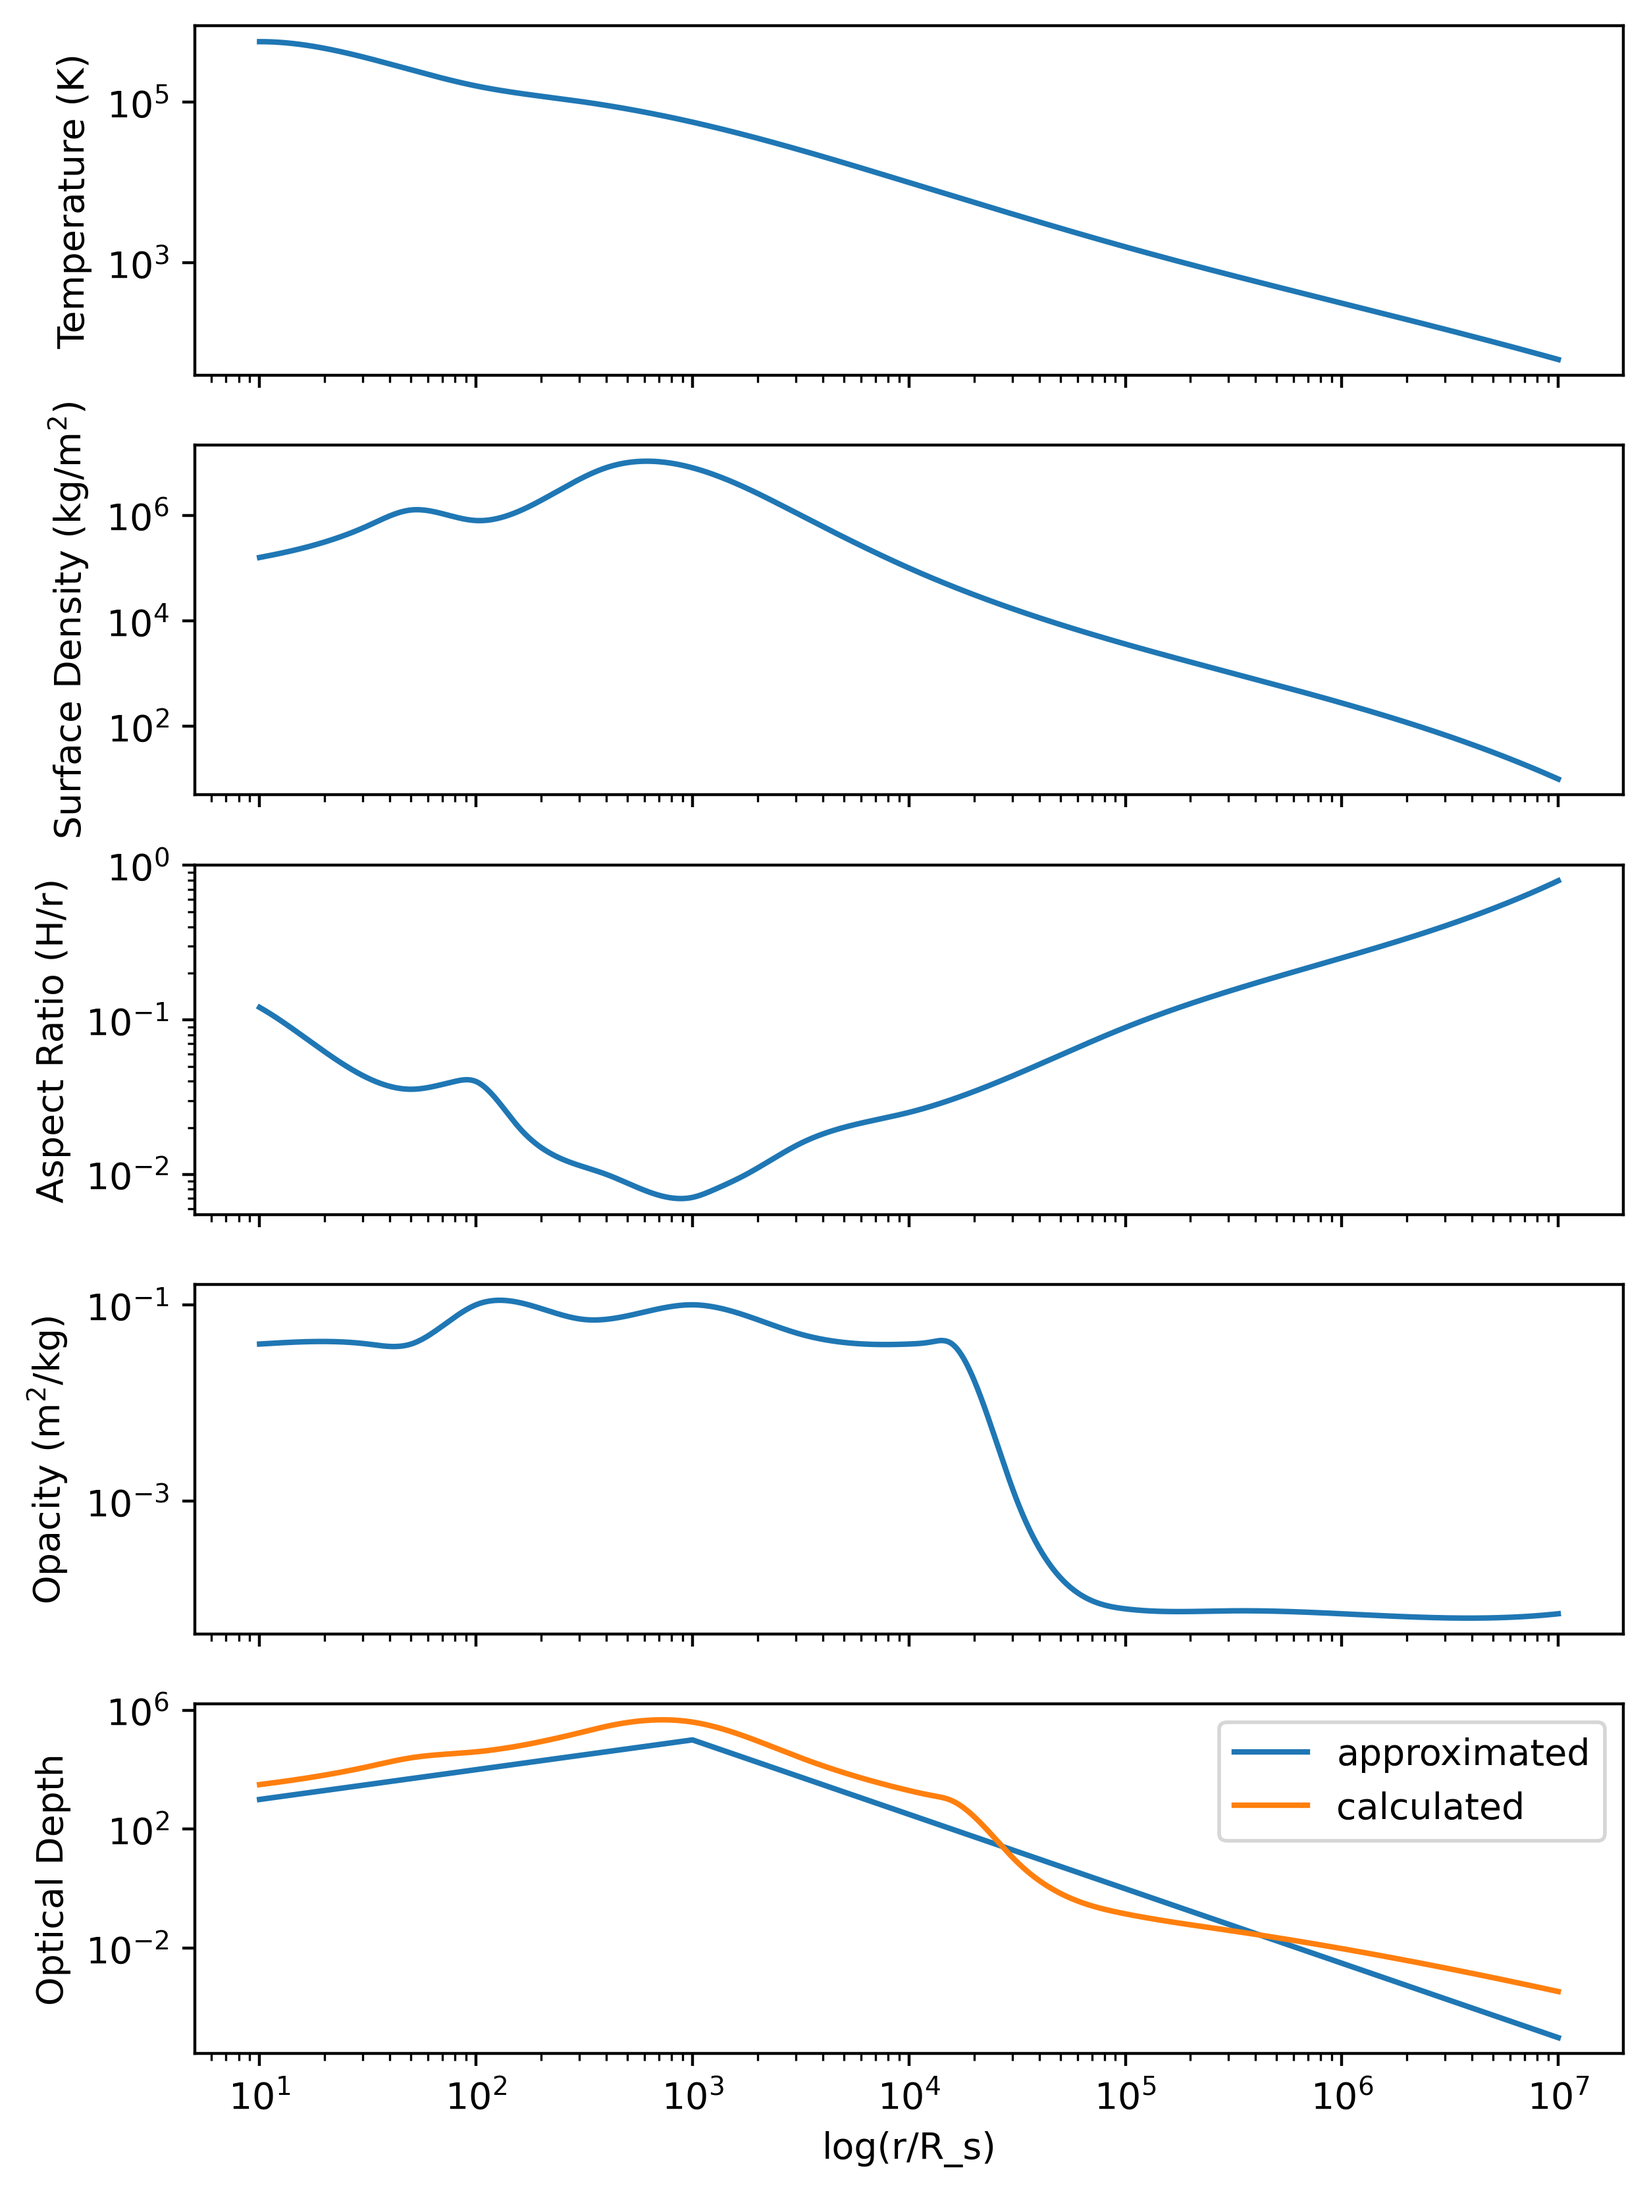
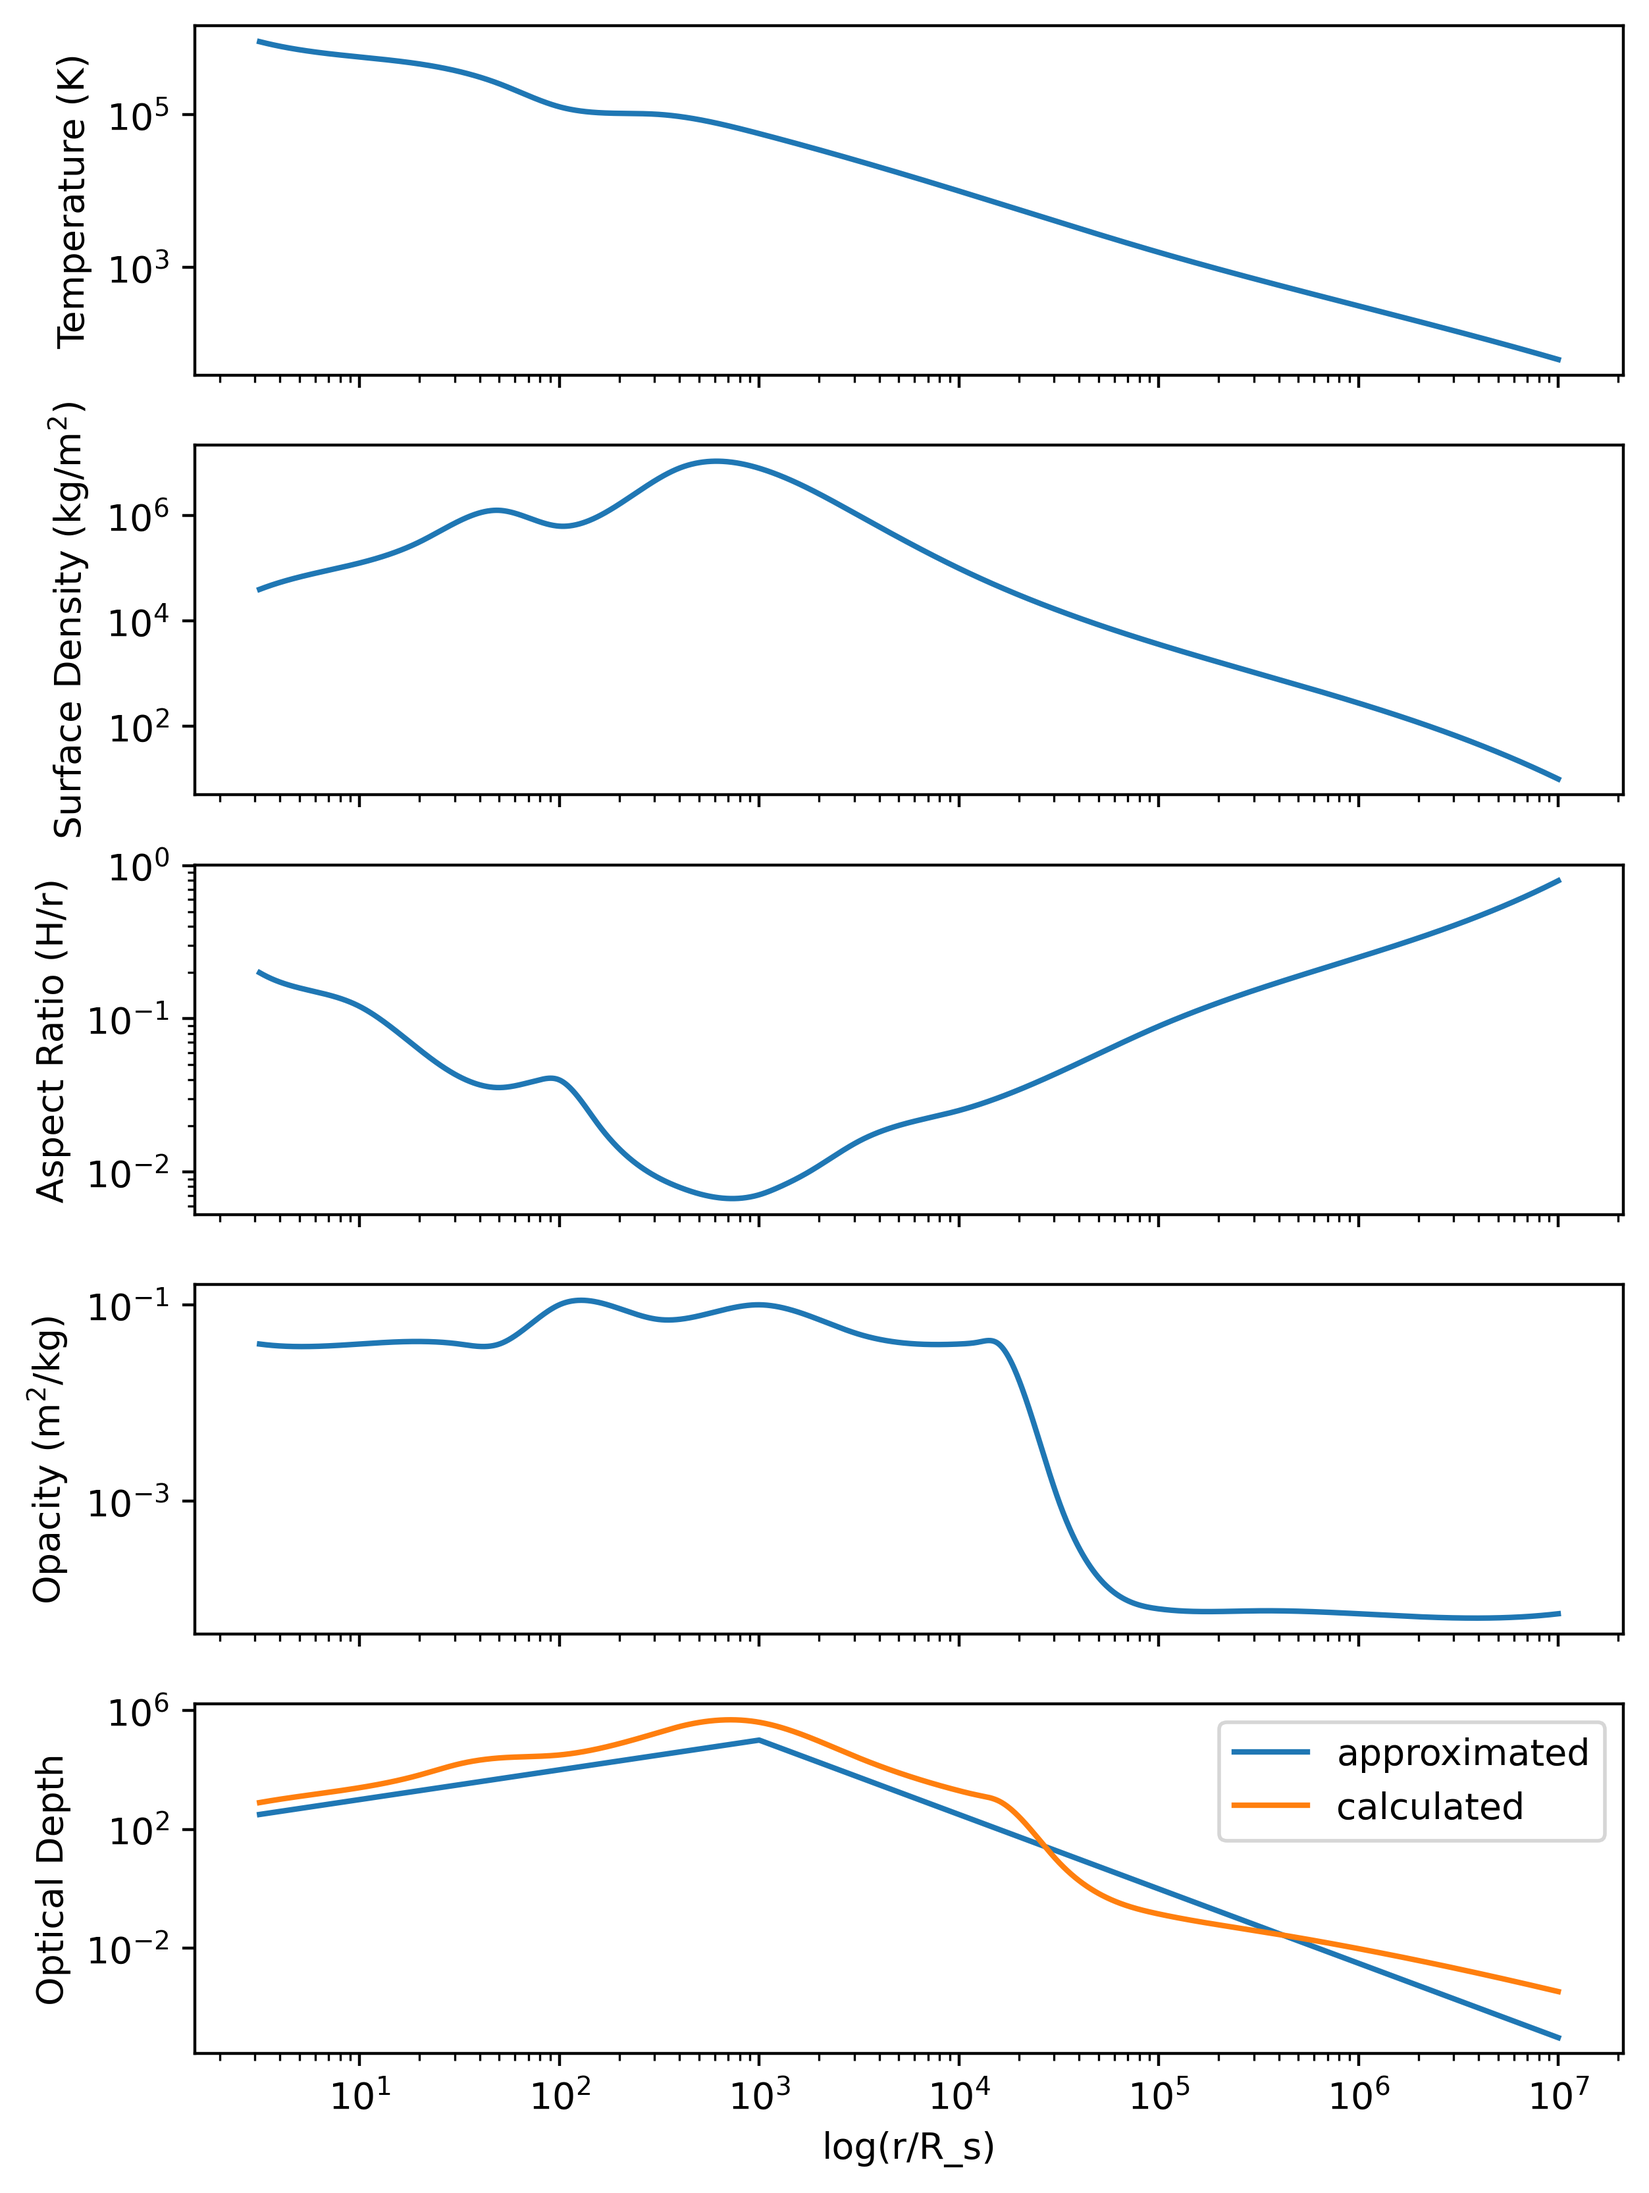
Make splines slightly more accurate

diff --git a/N-Body_Code/CommonTools.py b/N-Body_Code/CommonTools.py
@@ -17,16 +17,16 @@ c = 3e8     # m/s
 M_odot = 1.98e30 # kg
 pc_to_m = 3.086e16  # m
 
-sigma_data_r = [0.5, 1, 1.5, 1.7, 2, 2.6, 3, 3.5, 4, 5.5, 7]
-sigma_data = [3.8, 4.2, 4.8, 5.1, 4.9, 5.9, 5.9, 5, 4, 2, 0]
+sigma_data_r = [0.5, 1, 1.3, 1.5, 1.7, 2, 2.6, 3, 3.5, 4, 5.5, 7]
+sigma_data = [3.6, 4.1, 4.5, 4.9, 5.1, 4.8, 5.9, 5.9, 5, 4, 2, 0]
 log_sigma_spline = interp.CubicSpline(sigma_data_r, sigma_data, extrapolate=True)
 
-temp_data_r = [1, 1.7, 2, 2.5, 3, 4, 5, 6, 7]
-temp_data = [5.75, 5.4, 5.2, 5, 4.75, 4, 3.2, 2.5, 1.8]
+temp_data_r = [0.5, 1, 1.7, 2, 2.5, 3, 4, 5, 6, 7]
+temp_data = [5.95, 5.75, 5.4, 5.1, 5, 4.75, 4, 3.2, 2.5, 1.8]
 log_temp_spline = interp.CubicSpline(temp_data_r, temp_data, extrapolate=True)
 
-aratio_data_r = [1, 1.4, 1.7, 1.9, 2, 2.2, 2.6, 3, 3.1, 3.25, 3.5, 4, 5, 6, 7]
-aratio_data = [-0.92, -1.3, -1.45, -1.4, -1.4, -1.7, -2, -2.15, -2.1, -2, -1.8, -1.6, -1.05, -0.6, -0.1]
+aratio_data_r = [0.5, 0.7, 1, 1.4, 1.7, 1.9, 2, 2.2, 2.6, 3, 3.1, 3.25, 3.5, 4, 5, 6, 7]
+aratio_data = [-0.7, -0.8, -0.92, -1.3, -1.45, -1.4, -1.4, -1.7, -2.1, -2.15, -2.1, -2, -1.8, -1.6, -1.05, -0.6, -0.1]
 log_aratio_spline = interp.CubicSpline(aratio_data_r, aratio_data, extrapolate=True)
 
 opacity_data_r = [0.5, 1, 1.5, 1.7, 2, 2.5, 3, 3.5, 4, 4.1, 4.2, 4.5, 5, 5.5, 6, 7]
@@ -70,10 +70,16 @@ class AGNDisk(object):
         '''
         x, y, z = position
         radius = np.linalg.norm(position)
-        radial_vec = np.array([x, y, z]) / radius
+        # radial_vec2 = np.array([x, y, z]) / radius
         theta_vec = np.array([-y, x, 0]) / radius
+        # theta = np.arctan2(y, x)
+        # phi = np.sign(y) * np.arccos(x / np.sqrt(x**2 + y**2))
+        # radial_vec = np.array([np.sin(phi) * np.cos(theta), np.sin(phi) * np.sin(theta), np.cos(phi)])
+        # print(radial_vec)
+        # print(radial_vec - radial_vec2)
+        # theta_vec = np.array([-np.sin(theta), np.cos(theta), 0])
         nondim_mig = self.mig_force(mass, radius) / mass * theta_vec
-        nondim_damp = self.damp_force(mass, position, vel) * radial_vec
+        nondim_damp = self.damp_force(mass, position, vel)
         # print(nondim_mig, nondim_damp)
         
         return nondim_mig + nondim_damp
@@ -115,9 +121,8 @@ class AGNDisk(object):
         beta = log_temp_spline.derivative()(logr) * np.log(10)
         xi = beta - (gamma - 1) * alpha
         
-        Theta = (c_v * Sigma * rotvel * tau_eff) / (12 * np.pi * stefboltz * self.disk_temp(logr)**3)
+        Theta = (c_v * Sigma * rotvel * tau_eff) / (4 * np.pi * stefboltz * self.disk_temp(logr)**3)
         Gamma_0 = (q * radius / asp_ratio)**2 * Sigma * radius**4 * rotvel**2
-        # print(Gamma_0, (q / asp_ratio), Sigma, radius**4, rotvel**2)
         Gamma_iso =  -0.85 - alpha - 0.9 * beta
         Gamma_ad = (-0.85 - alpha - 1.7 * beta + 7.9 * xi / gamma) / gamma
         
@@ -139,8 +144,8 @@ class AGNDisk(object):
         logr = np.log10(radius / self.nondim_rs)
         a = semi_major_axis(position, vel)
         h = self.disk_aspectratio(logr)
-        velocity = self.disk_angularvel(position, vel)
-        # velocity = self.disk_rotvel(logr)
+        # velocity = self.disk_angularvel(position, vel)
+        velocity = self.disk_rotvel(logr)
         smbhmass = 1
         tdamp = (smbhmass**2 * h**4) / (mass * self.disk_surfdens(logr) * a**2 * velocity)
         e = eccentricity(position, vel)        # https://astronomy.stackexchange.com/questions/29005/calculation-of-eccentricity-of-orbit-from-velocity-and-radius
@@ -414,7 +419,7 @@ def AGNBHICs(masses, smbhmass, seed=4080):
     # insert the SMBH into the start of the array
     vel = np.insert(vel, 0, [0, 0, 0], axis=0)
     pos = np.insert(pos, 0, [0, 0, 0], axis=0)
-    softening = np.repeat(0.1, N + 1) if N > 4e3 else np.repeat(0.05, N + 1)
+    softening = np.repeat(0.1, N + 1) if N > 4e3 else np.repeat(0.0005, N + 1)
     masses = masses / (sum(masses) + smbhmass)
     masses = np.insert(masses, 0, smbhmass / (sum(masses) + smbhmass))
     

diff --git a/N-Body_Code/DiskModel_Torques.py b/N-Body_Code/DiskModel_Torques.py
@@ -26,7 +26,7 @@ agn = AGNDisk(SMBHMass, lenscale)
 
 ## --- Disk Model --- ###
 n = 2000
-radius = np.logspace(1, 7, n) * agn.nondim_rs
+radius = np.logspace(0.5, 7, n) * agn.nondim_rs
 logradius = np.log10(radius / agn.nondim_rs)
 
 fig, axes = plt.subplots(nrows=5, sharex=True, figsize=(7, 10))
@@ -62,7 +62,7 @@ fig.savefig('Disk Model.png', dpi=400, bbox_inches='tight')
 
 
 
-radii = np.logspace(1, 5, 1000) * agn.nondim_rs
+radii = np.logspace(0.6, 5, 1000) * agn.nondim_rs
 torques = np.zeros(len(radii))
 for i, radius in enumerate(radii):
     torques[i] = agn.mig_force(1e-7, radius)
